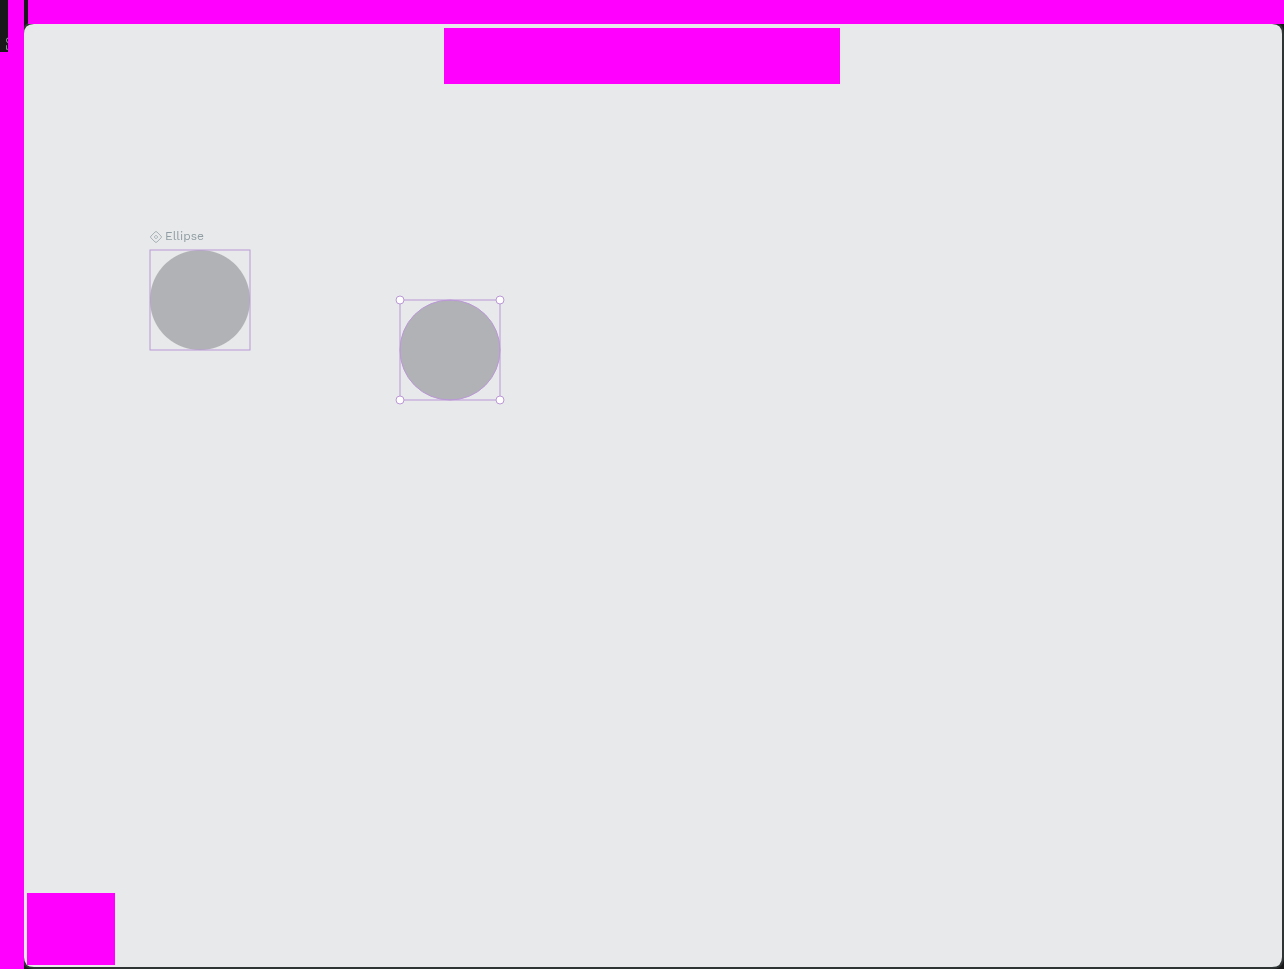
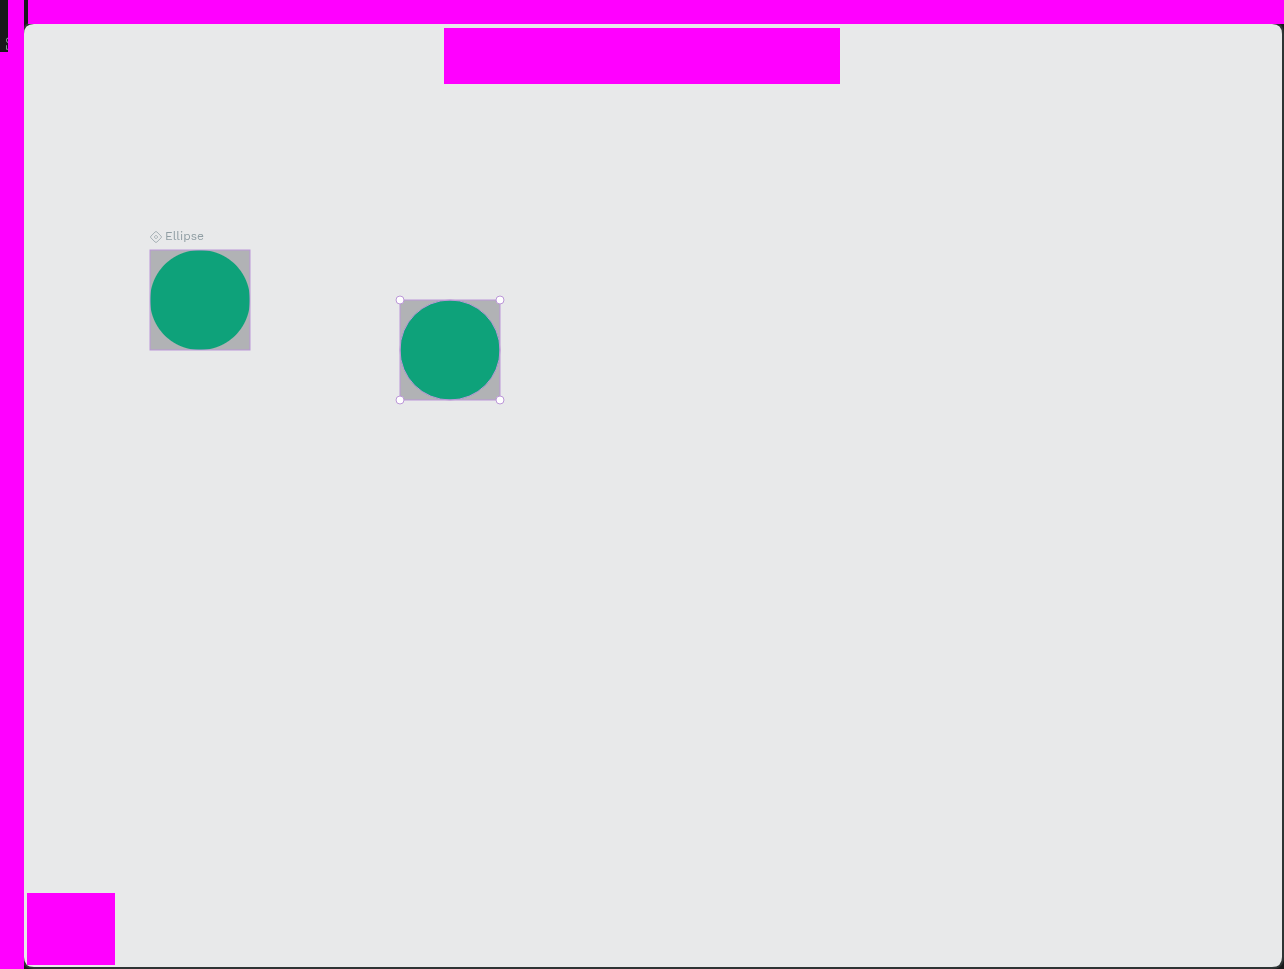
fix(tests): ensure changes are saved after selecting and copying components in context menu tests

Changed region(s): [[0.0935, 0.2477, 0.2181, 0.3715], [0.3115, 0.3096, 0.405, 0.4334]]

diff --git a/tests/components/main-components/context-menu/context-menu-options.spec.ts b/tests/components/main-components/context-menu/context-menu-options.spec.ts
@@ -459,6 +459,7 @@ mainTest.describe(() => {
           await layersPanelPage.clickMainComponentOnLayersTab();
           await layersPanelPage.selectMainComponentChildLayer();
           await designPanelPage.isFillHexCodeSet('#0EA27A');
+          await mainPage.waitForChangeIsSaved();
         },
       );
 
@@ -472,6 +473,7 @@ mainTest.describe(() => {
           await layersPanelPage.clickCopyComponentOnLayersTab();
           await layersPanelPage.selectCopyComponentChildLayer();
           await designPanelPage.isFillHexCodeSet('#0EA27A');
+          await mainPage.waitForChangeIsSaved();
         },
       );
 